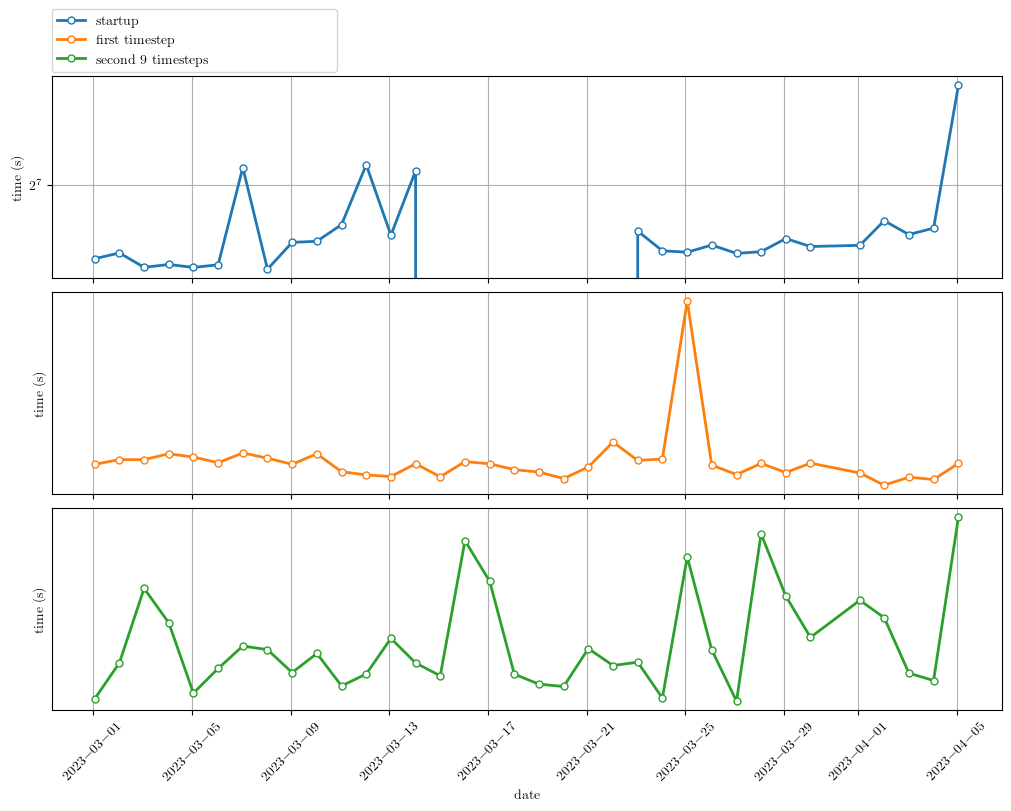
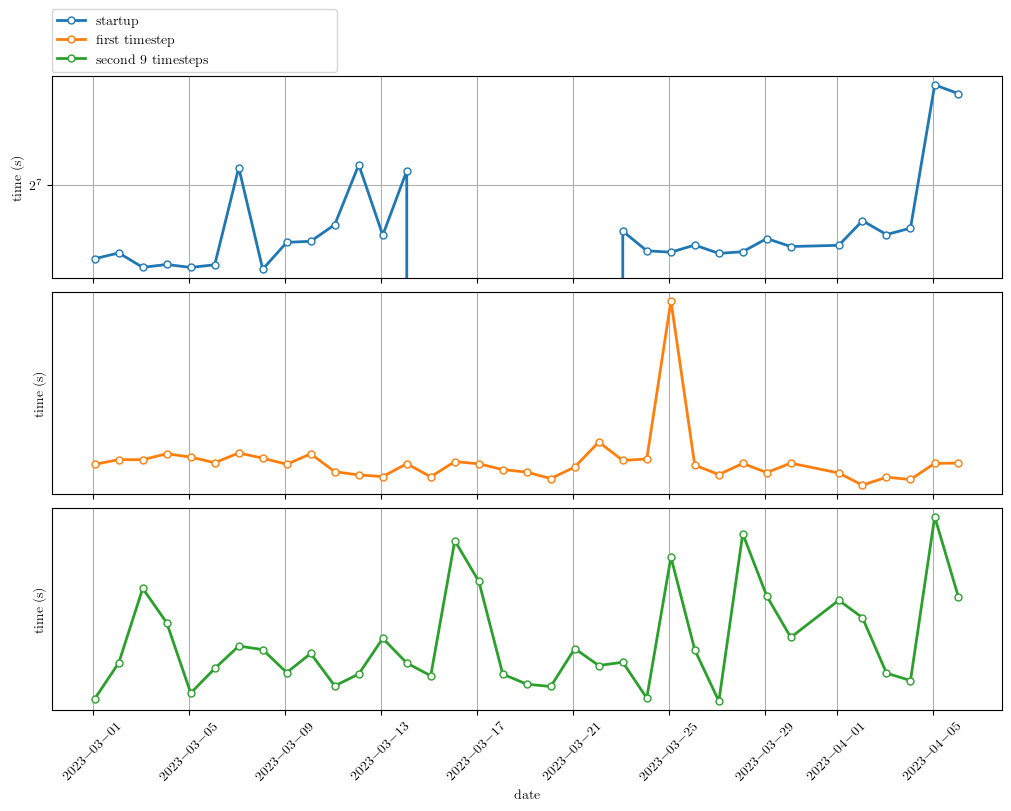
Automatic timing summary commit: lassen708 2023-04-06 01:01

diff --git a/README.md b/README.md
@@ -1,4 +1,4 @@
-Timings last ran on: 2023.04.05
+Timings last ran on: 2023.04.06
 
 # Status of production timings
 
